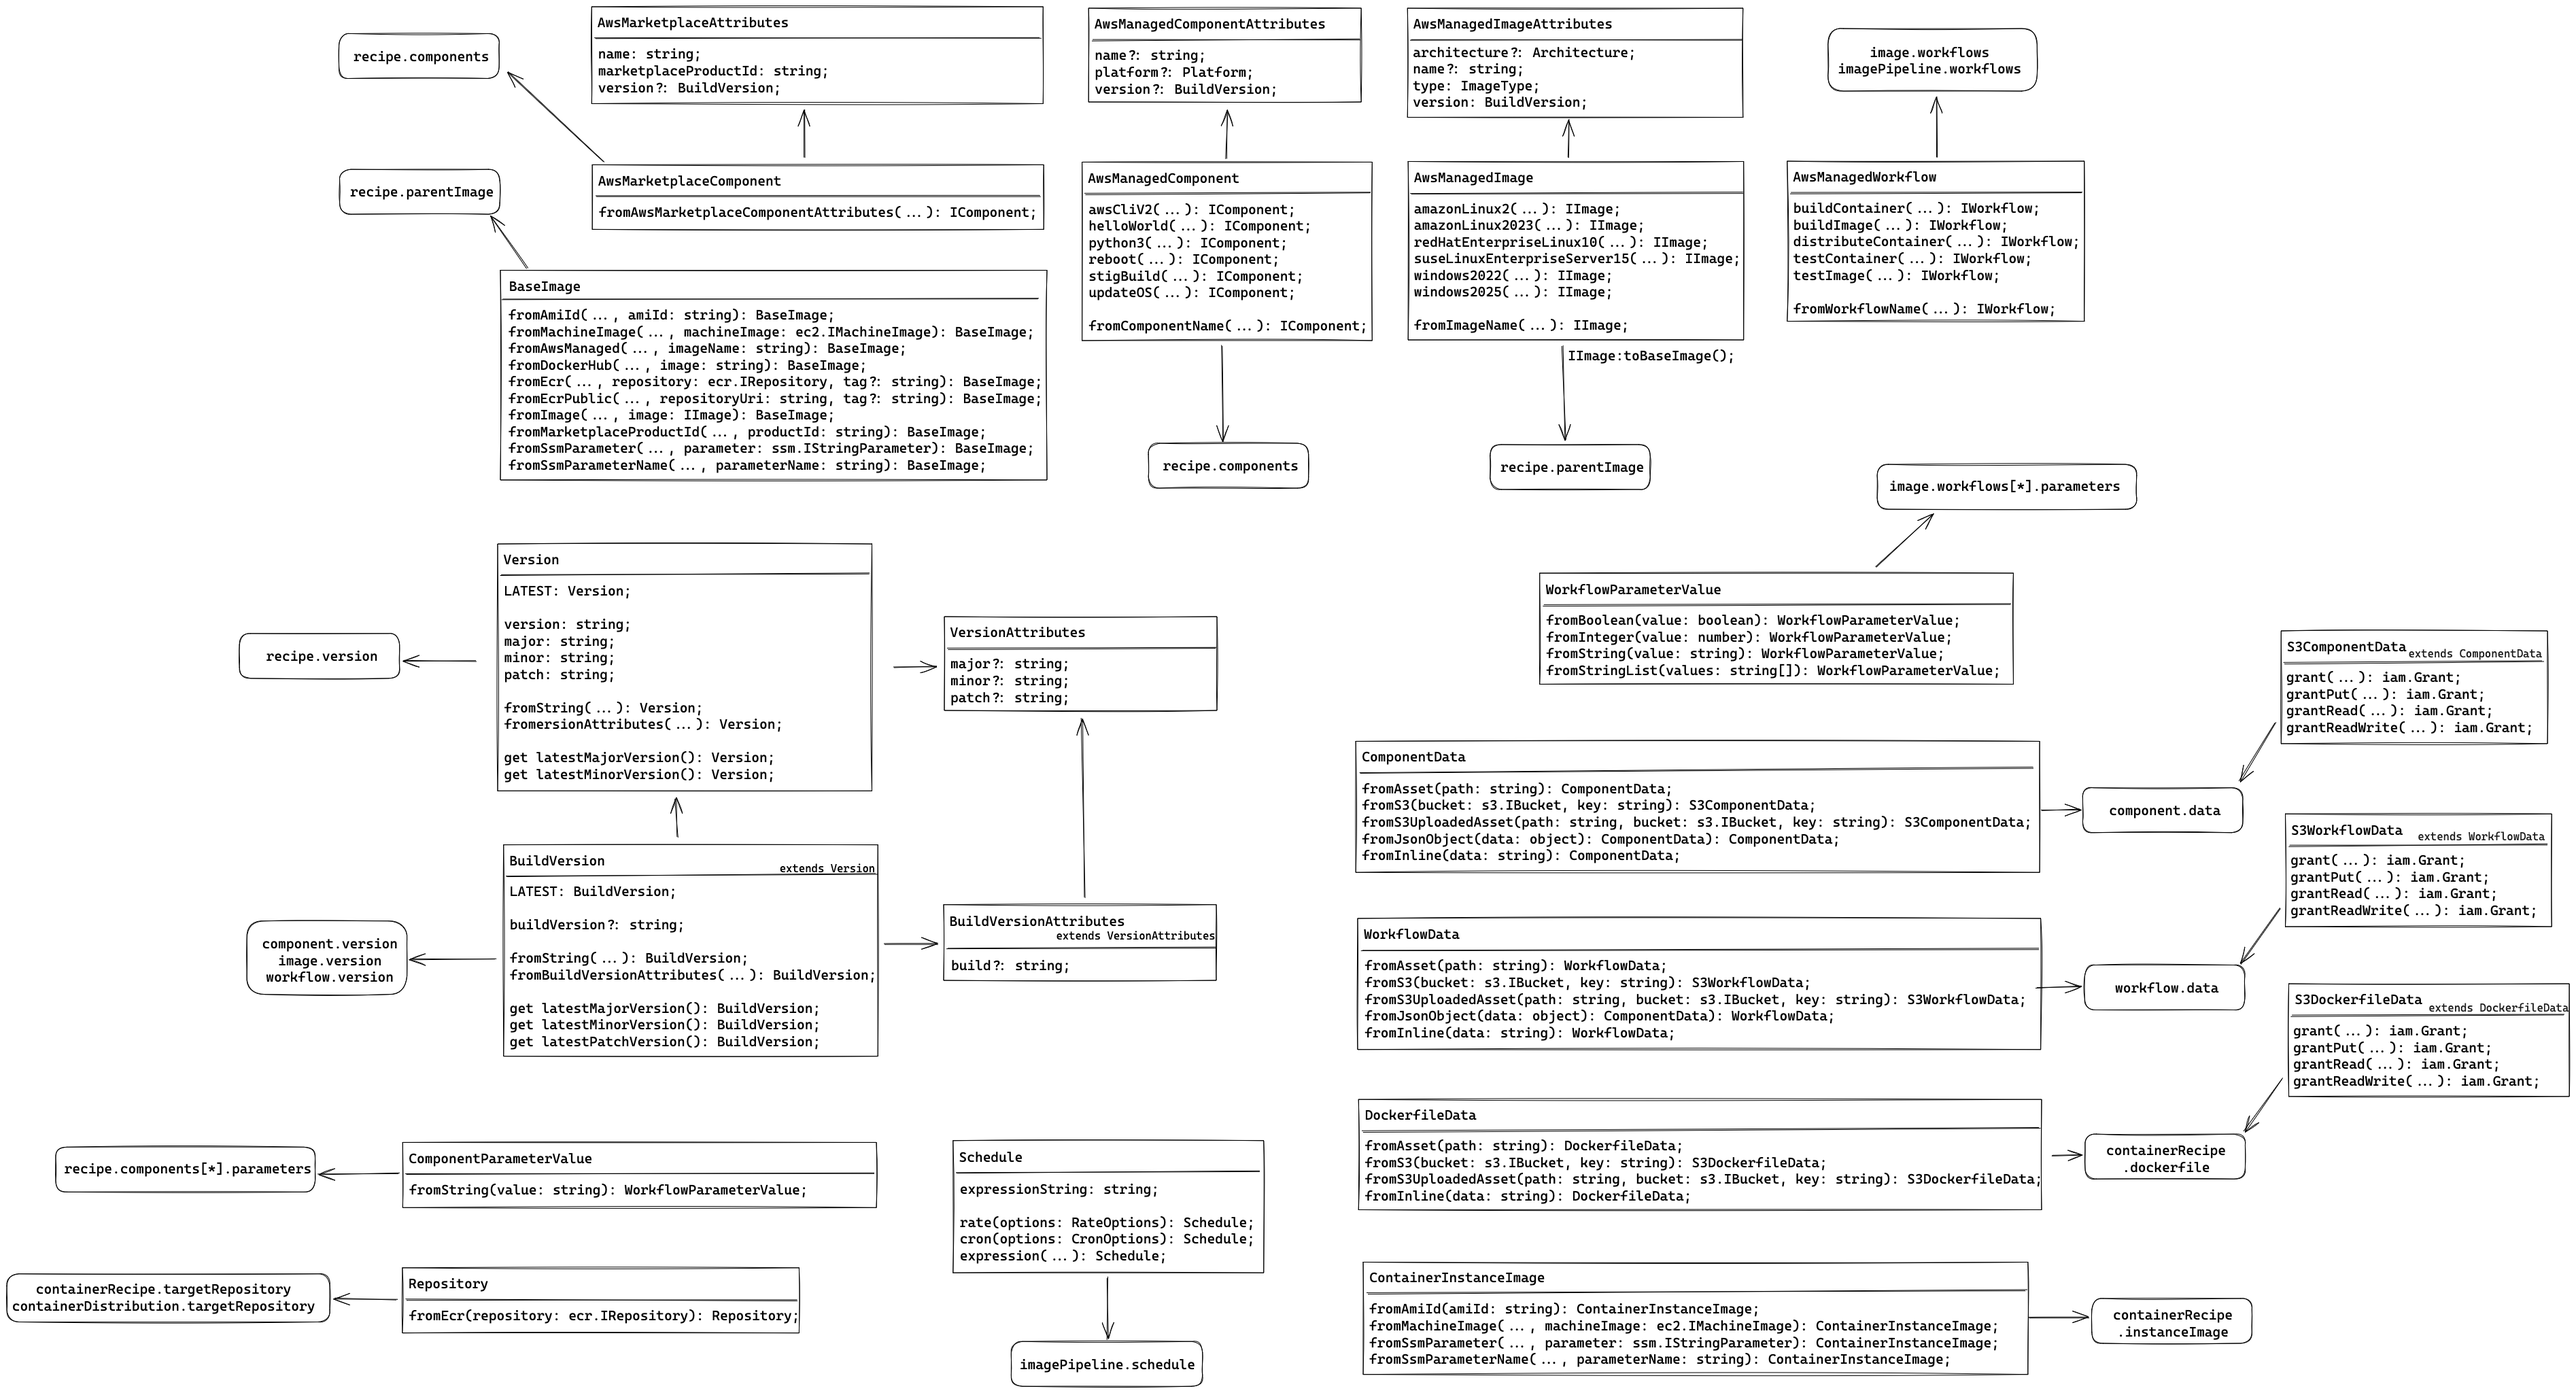
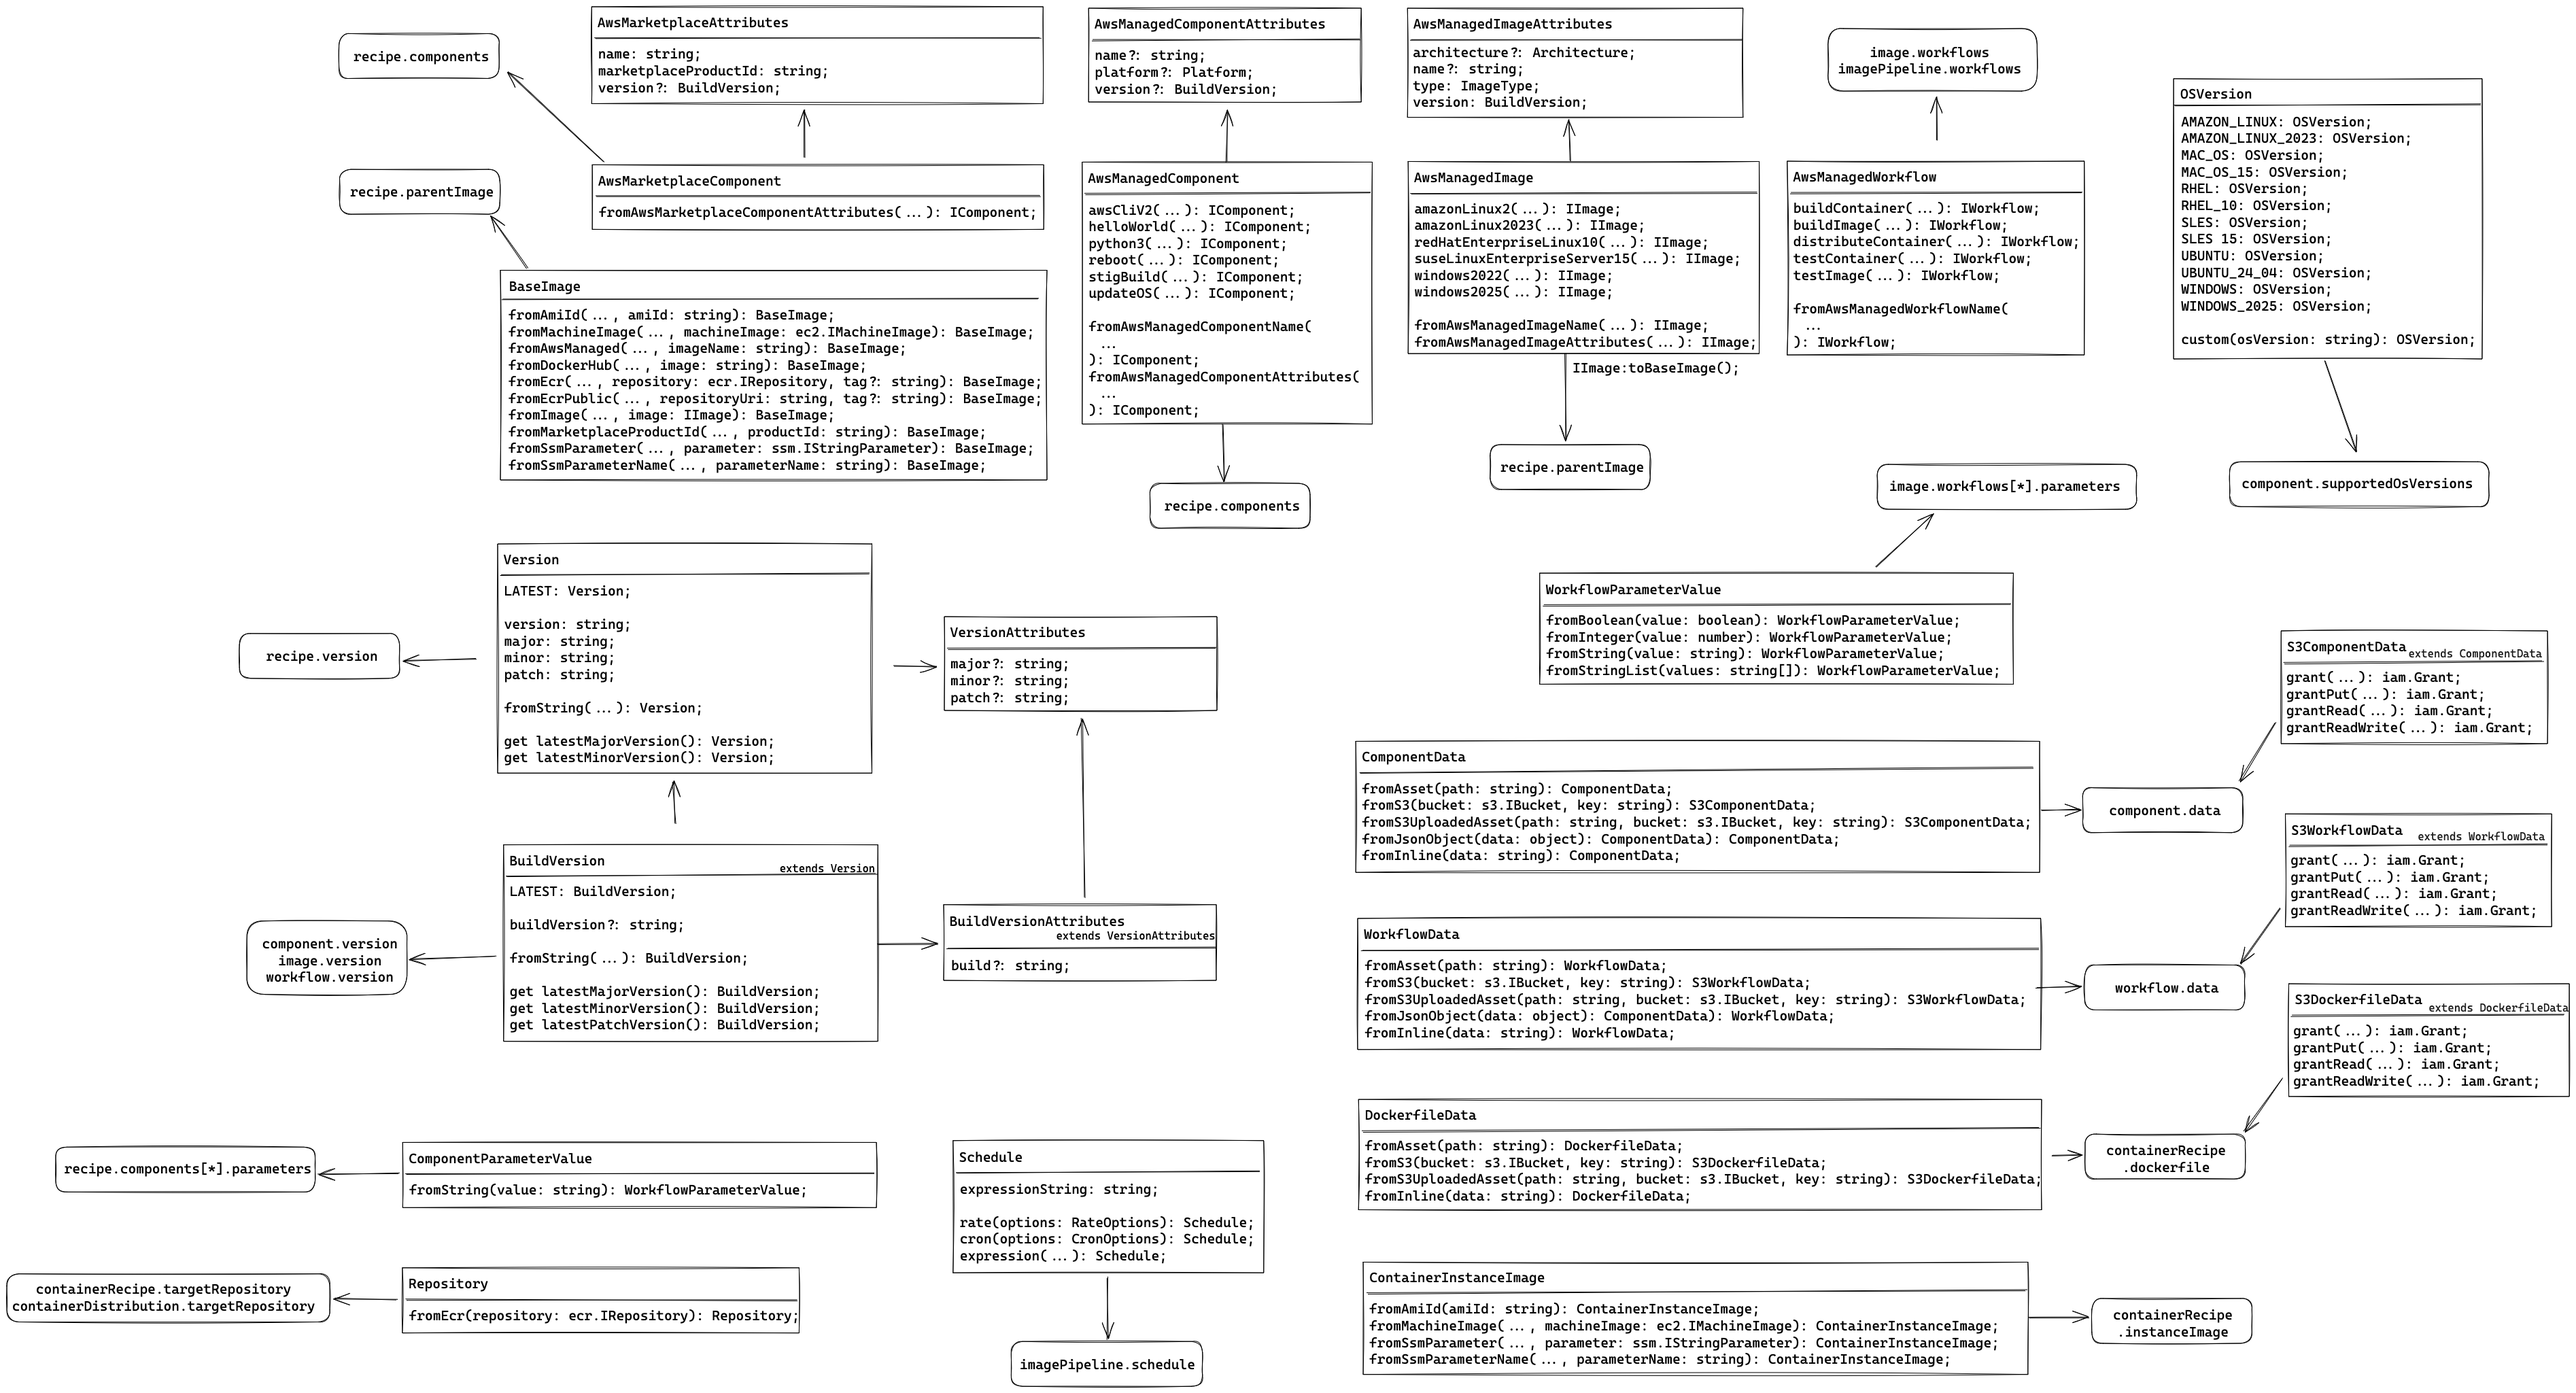
Addressed review comments on classes

diff --git a/text/0789-imagebuilder-l2.md b/text/0789-imagebuilder-l2.md
@@ -981,6 +981,13 @@ interface ImagePipelineProps {
    * @default - image testing is enabled
    */
   readonly testsConfiguration?: ImageTestsConfiguration;
+
+  /**
+   * The tags to apply to the image pipeline
+   *
+   * @default - None
+   */
+  readonly tags?: { [key: string]: string };
 }
 ```
 
@@ -1080,6 +1087,13 @@ interface ImageProps {
    * @default - image testing is enabled
    */
   readonly testsConfiguration?: ImageTestsConfiguration;
+
+  /**
+   * The tags to apply to the image
+   *
+   * @default - None
+   */
+  readonly tags?: { [key: string]: string };
 }
 ```
 
@@ -1146,6 +1160,13 @@ interface ImageRecipeProps {
    * @default - None
    */
   readonly additionalInstanceConfiguration?: AdditionalInstanceConfiguration;
+
+  /**
+   * The tags to apply to the image recipe
+   *
+   * @default - None
+   */
+  readonly tags?: { [key: string]: string };
 }
 ```
 
@@ -1218,7 +1239,7 @@ interface ContainerRecipeProps {
    * @default - Image Builder will determine the OS version of the base image, if sourced from a
    * third-party container registry. Otherwise, the OS version of the base image is required.
    */
-  readonly osVersion?: string;
+  readonly osVersion?: OSVersion;
 
   /**
    * The operating system platform of the base image.
@@ -1241,6 +1262,13 @@ interface ContainerRecipeProps {
    * @default - Image Builder will use the appropriate ECS-optimized AMI
    */
   readonly instanceImage?: ContainerInstanceImage;
+
+  /**
+   * The tags to apply to the container recipe
+   *
+   * @default - None
+   */
+  readonly tags?: { [key: string]: string };
 }
 ```
 
@@ -1281,7 +1309,8 @@ interface ComponentProps {
   readonly description?: string;
 
   /**
-   * The change description of the component.
+   * The change description of the component. Describes what change has been made in this version of the component, or
+   * what makes this version different from other versions.
    *
    * @default - None
    */
@@ -1299,7 +1328,14 @@ interface ComponentProps {
    *
    * @default - None
    */
-  readonly supportedOsVersions?: string[];
+  readonly supportedOsVersions?: OSVersion[];
+
+  /**
+   * The tags to apply to the component
+   *
+   * @default - None
+   */
+  readonly tags?: { [key: string]: string };
 }
 ```
 
@@ -1407,6 +1443,13 @@ interface InfrastructureConfigurationProps {
    * @default - None
    */
   readonly resourceTags?: { [key: string]: string };
+
+  /**
+   * The tags to apply to the infrastructure configuration
+   *
+   * @default - None
+   */
+  readonly tags?: { [key: string]: string };
 }
 ```
 
@@ -1432,6 +1475,13 @@ interface DistributionConfigurationProps {
    * @default - None
    */
   readonly description?: string;
+
+  /**
+   * The tags to apply to the distribution configuration
+   *
+   * @default - None
+   */
+  readonly tags?: { [key: string]: string };
 }
 ```
 
@@ -1471,7 +1521,8 @@ interface WorkflowProps {
   readonly description?: string;
 
   /**
-   * The change description of the workflow.
+   * The change description of the workflow. Describes what change has been made in this version of the workflow, or
+   * what makes this version different from other versions.
    *
    * @default - None
    */
@@ -1483,6 +1534,13 @@ interface WorkflowProps {
    * @default - An Image Builder owned key will be used to encrypt the workflow.
    */
   readonly kmsKey?: kms.IKey;
+
+  /**
+   * The tags to apply to the workflow
+   *
+   * @default - None
+   */
+  readonly tags?: { [key: string]: string };
 }
 ```
 
@@ -1535,6 +1593,13 @@ interface LifecyclePolicyProps {
    * @default - An execution role will be generated
    */
   readonly executionRole?: iam.IRole;
+
+  /**
+   * The tags to apply to the lifecycle policy
+   *
+   * @default - None
+   */
+  readonly tags?: { [key: string]: string };
 }
 ```
 
@@ -2232,7 +2297,7 @@ class Workflow extends WorkflowBase {
 ##### Type definitions
 
 ```ts
-abstract class AwsManagedComponent {
+class AwsManagedComponent {
   static awsCliV2(scope: Construct, id: string, attrs: AwsManagedComponentAttributes): IComponent;
   static helloWorld(scope: Construct, id: string, attrs: AwsManagedComponentAttributes): IComponent;
   static python3(scope: Construct, id: string, attrs: AwsManagedComponentAttributes): IComponent;
@@ -2240,10 +2305,11 @@ abstract class AwsManagedComponent {
   static stigBuild(scope: Construct, id: string, attrs: AwsManagedComponentAttributes): IComponent;
   static updateOS(scope: Construct, id: string, attrs: AwsManagedComponentAttributes): IComponent;
 
-  static fromComponentName(scope: Construct, id: string, name: string): IComponent;
+  static fromAwsManagedComponentName(scope: Construct, id: string, name: string): IComponent;
+  static fromAwsManagedComponentAttributes(scope: Construct, id: string, attrs: AwsManagedComponentAttributes): IComponent;
 }
 
-abstract class AwsManagedImage {
+class AwsManagedImage {
   static amazonLinux2(scope: Construct, id: string, attrs?: AwsManagedImageAttributes): IImage;
   static amazonLinux2023(scope: Construct, id: string, attrs?: AwsManagedImageAttributes): IImage;
   static redHatEnterpriseLinux10(scope: Construct, id: string, attrs?: AwsManagedImageAttributes): IImage;
@@ -2251,20 +2317,21 @@ abstract class AwsManagedImage {
   static windows2022(scope: Construct, id: string, attrs?: AwsManagedImageAttributes): IImage;
   static windows2025(scope: Construct, id: string, attrs?: AwsManagedImageAttributes): IImage;
 
-  static fromImageName(scope: Construct, id: string, name: string): IImage;
+  static fromAwsManagedImageName(scope: Construct, id: string, name: string): IImage;
+  static fromAwsManagedImageAttributes(scope: Construct, id: string, attrs: AwsManagedImageAttributes): IImage;
 }
 
-abstract class AwsManagedWorkflow {
+class AwsManagedWorkflow {
   static buildContainer(scope: Construct, id: string): IWorkflow;
   static buildImage(scope: Construct, id: string): IWorkflow;
   static distributeContainer(scope: Construct, id: string): IWorkflow;
   static testContainer(scope: Construct, id: string): IWorkflow;
   static testImage(scope: Construct, id: string): IWorkflow;
 
-  static fromWorkflowName(scope: Construct, id: string, name: string): IWorkflow;
+  static fromAwsManagedWorkflowName(scope: Construct, id: string, name: string): IWorkflow;
 }
 
-abstract class AwsMarketplaceComponent {
+class AwsMarketplaceComponent {
   static fromAwsMarketplaceComponentAttributes(
     scope: Construct,
     id: string,
@@ -2285,7 +2352,7 @@ abstract class BaseImage {
   static fromSsmParameterName(scope: Construct, id: string, parameterName: string): BaseImage;
 }
 
-abstract class BuildVersion extends Version {
+class BuildVersion extends Version {
   static readonly LATEST: BuildVersion;
 
   /**
@@ -2293,8 +2360,10 @@ abstract class BuildVersion extends Version {
    */
   readonly buildVersion?: string;
 
+  protected constructor(attrs: BuildVersionAttributes);
+
   static fromString(buildVersionString: string): BuildVersion;
-  static fromBuildVersionAttributes(attrs: BuildVersionAttributes): BuildVersion;
+
   /**
    * The latest major version for the given version string
    */
@@ -2319,13 +2388,6 @@ abstract class ComponentData {
   static fromInline(data: string): ComponentData;
 }
 
-abstract class DockerfileData {
-  static fromAsset(path: string): DockerfileData;
-  static fromS3(bucket: s3.IBucket, key: string): S3DockerfileData;
-  static fromS3UploadedAsset(path: string, bucket?: s3.IBucket, key?: string): S3DockerfileData;
-  static fromInline(data: string): DockerfileData;
-}
-
 abstract class ComponentParameterValue {
   static fromString(value: string): ComponentParameterValue;
 }
@@ -2335,6 +2397,34 @@ abstract class ContainerInstanceImage {
   static fromMachineImage(scope: Construct, id: string, machineImage: ec2.IMachineImage): ContainerInstanceImage;
   static fromSsmParameter(scope: Construct, id: string, parameter: ssm.IStringParameter): ContainerInstanceImage;
   static fromSsmParameterName(scope: Construct, id: string, parameterName: string): ContainerInstanceImage;
+}
+
+abstract class DockerfileData {
+  static fromAsset(path: string): DockerfileData;
+  static fromS3(bucket: s3.IBucket, key: string): S3DockerfileData;
+  static fromS3UploadedAsset(path: string, bucket?: s3.IBucket, key?: string): S3DockerfileData;
+  static fromInline(data: string): DockerfileData;
+}
+
+class OSVersion {
+  public static AMAZON_LINUX = new OSVersion('Amazon Linux');
+  public static AMAZON_LINUX_2023 = new OSVersion('Amazon Linux 2023');
+  public static MAC_OS = new OSVersion('macOS');
+  public static MAC_OS_15 = new OSVersion('macOS 15');
+  public static RHEL = new OSVersion('Red Hat Enterprise Linux');
+  public static RHEL_10 = new OSVersion('Red Hat Enterprise Linux 10');
+  public static SLES = new OSVersion('SLES');
+  public static SLES_15 = new OSVersion('SLES 15');
+  public static UBUNTU = new OSVersion('Ubuntu');
+  public static UBUNTU_24_04 = new OSVersion('Ubuntu 24');
+  public static WINDOWS = new OSVersion('Microsoft Windows Server');
+  public static WINDOWS_2025 = new OSVersion('Microsoft Windows Server 2025');
+
+  constructor(public readonly osVersion: string) {  }
+
+  public static custom(osVersion: string) {
+    return new OSVersion(osVersion);
+  }
 }
 
 abstract class Repository {
@@ -2396,8 +2486,10 @@ class Version {
    */
   readonly patchVersion: string;
 
+  protected constructor(attrs: VersionAttributes);
+
   static fromString(versionString: string): Version;
-  static fromVersionAttributes(attrs: VersionAttributes): Version;
+
 
   /**
    * The latest major version for the given version string
